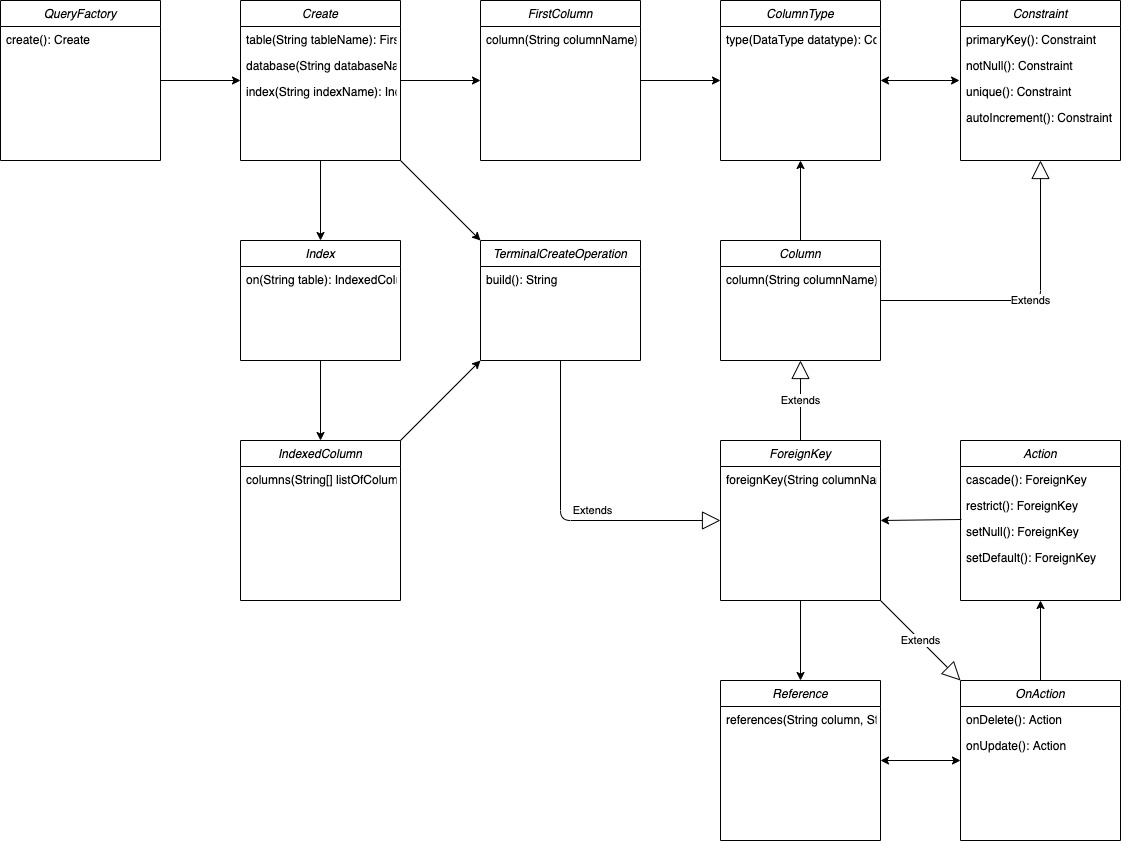
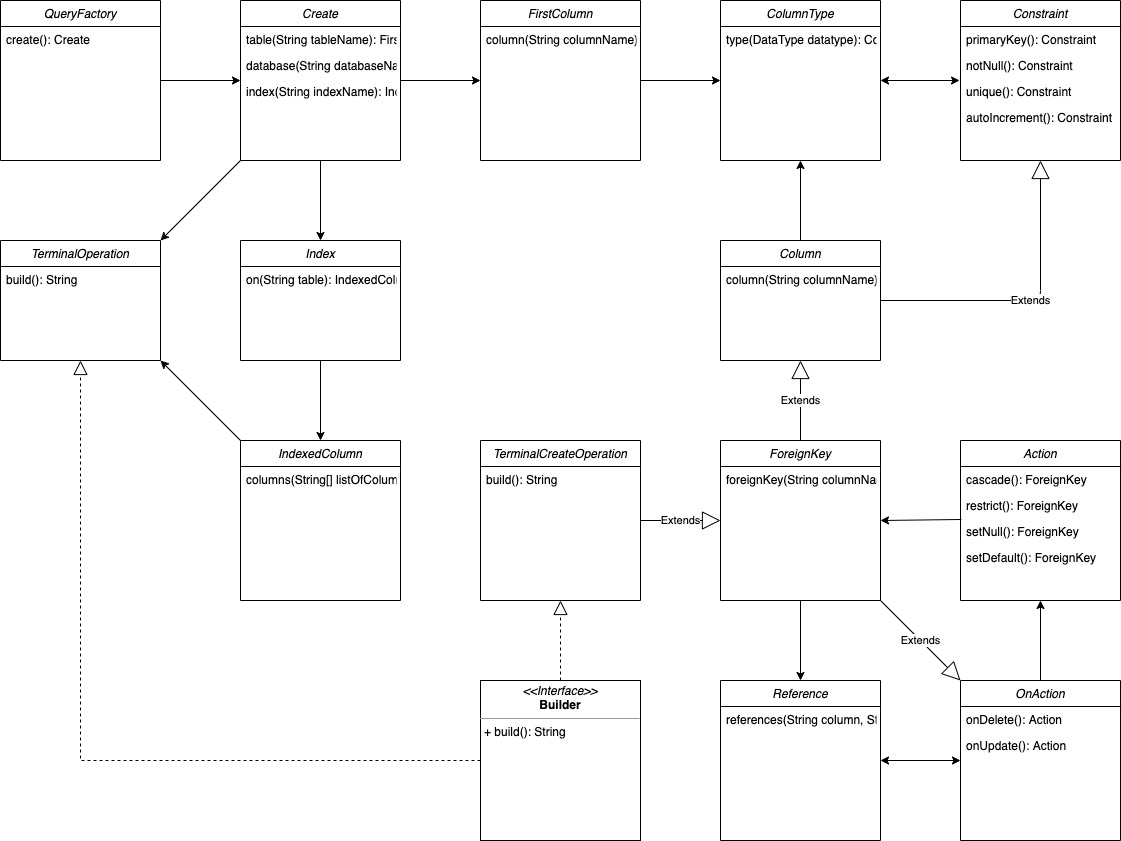
updated docs and started to create javadoc

diff --git a/src/main/java/builder/statement/select/column/ColumnTemplate.java b/src/main/java/builder/statement/select/column/ColumnTemplate.java
@@ -2,36 +2,44 @@ package builder.statement.select.column;
 
 import builder.SQLStringAppender;
 
+/**
+ * Defines the methods for SELECTing columns or aggregate functions
+ */
 public abstract class ColumnTemplate extends SQLStringAppender {
 
     public ColumnTemplate(StringBuilder queryString) {
         super(queryString);
     }
 
-    public Column column(String fieldName) {
+    /**
+     *
+     * @param column Column name to be queried by SELECT
+     * @return Column class 
+     */
+    public Column column(String column) {
         addCommaAfterFirstValue();
-        append(fieldName);
+        append(column);
         return new Column(this.queryString);
     }
 
-    public Column count(String columnName) {
-        return applyAggregate("COUNT", columnName);
+    public Column count(String column) {
+        return applyAggregate("COUNT", column);
     }
 
-    public Column min(String columnName) {
-        return applyAggregate("MIN", columnName);
+    public Column min(String column) {
+        return applyAggregate("MIN", column);
     }
 
-    public Column max(String columnName) {
-        return applyAggregate("MAX", columnName);
+    public Column max(String column) {
+        return applyAggregate("MAX", column);
     }
 
-    public Column avg(String columnName) {
-        return applyAggregate("AVG", columnName);
+    public Column avg(String column) {
+        return applyAggregate("AVG", column);
     }
 
-    public Column sum(String columnName) {
-        return applyAggregate("SUM", columnName);
+    public Column sum(String column) {
+        return applyAggregate("SUM", column);
     }
 
     private Column applyAggregate(String function, String toColumn) {

diff --git a/src/test/java/builder/statement/select/column/ColumnTest.java b/src/test/java/builder/statement/select/column/ColumnTest.java
@@ -126,6 +126,23 @@ public class ColumnTest extends DatabaseTestBaseClass {
     }
 
     @Test
+    public void testMultipleAggregateFunctions() throws SQLException {
+        String query = QueryFactory
+                .select()
+                    .min("age")
+                    .max("birthdate")
+                    .count("*")
+                .from()
+                    .table("person")
+                .groupBy()
+                    .column("firstname")
+                .build();
+
+        assertEquals("SELECT MIN(age), MAX(birthdate), COUNT(*) FROM person GROUP BY firstname", query);
+        assertThatQueryIsValidSQL(query);
+    }
+
+    @Test
     public void testMultipleColumnsWithAliases() throws SQLException {
         String query = QueryFactory
                 .select()

diff --git a/src/test/java/builder/statement/insert/InsertTest.java b/src/test/java/builder/statement/insert/InsertTest.java
@@ -42,12 +42,12 @@ public class InsertTest extends DatabaseTestBaseClass {
                     .value("1980-04-12")
                     .value("Miika")
                     .value("Somero")
-                    .value(40)
+                    .value(40.5)
                 .build();
 
         logger.info(query);
 
-        assertEquals("INSERT INTO person (id, birthdate, firstname, lastname, age) VALUES (101, '1980-04-12', 'Miika', 'Somero', 40)", query);
+        assertEquals("INSERT INTO person (id, birthdate, firstname, lastname, age) VALUES (101, '1980-04-12', 'Miika', 'Somero', 40.5)", query);
         assertThatQueryIsValidSQL(query);
     }
 

diff --git a/src/main/java/builder/statement/insert/ValueTemplate.java b/src/main/java/builder/statement/insert/ValueTemplate.java
@@ -18,5 +18,11 @@ public abstract class ValueTemplate extends TerminalInsertOperation {
         return new Value(this.queryString);
     }
 
+    public Value value(double value) {
+        addCommaAfterFirstValue();
+        append(value);
+        return new Value(this.queryString);
+    }
+
     protected abstract void addCommaAfterFirstValue();
 }

diff --git a/docs/design.md b/docs/design.md
@@ -4,6 +4,10 @@ Starting point of using library is static factory class `QueryFactory` found in 
 
 ## About the design
 
+All the classes extends - either directly or by some other class - `SQLStringAppender`, which contains methods of append string values to query string.
+
+If class is 'terminal operation', meaning that the query string is valid SQL and can be executed, class extends `TerminalOperation` class (or equivalent `TerminalSelectOperation` etc.).
+
 ### Builder pattern
 
 I have used [builder pattern](https://en.wikipedia.org/wiki/Builder_pattern) to chain classes. 
